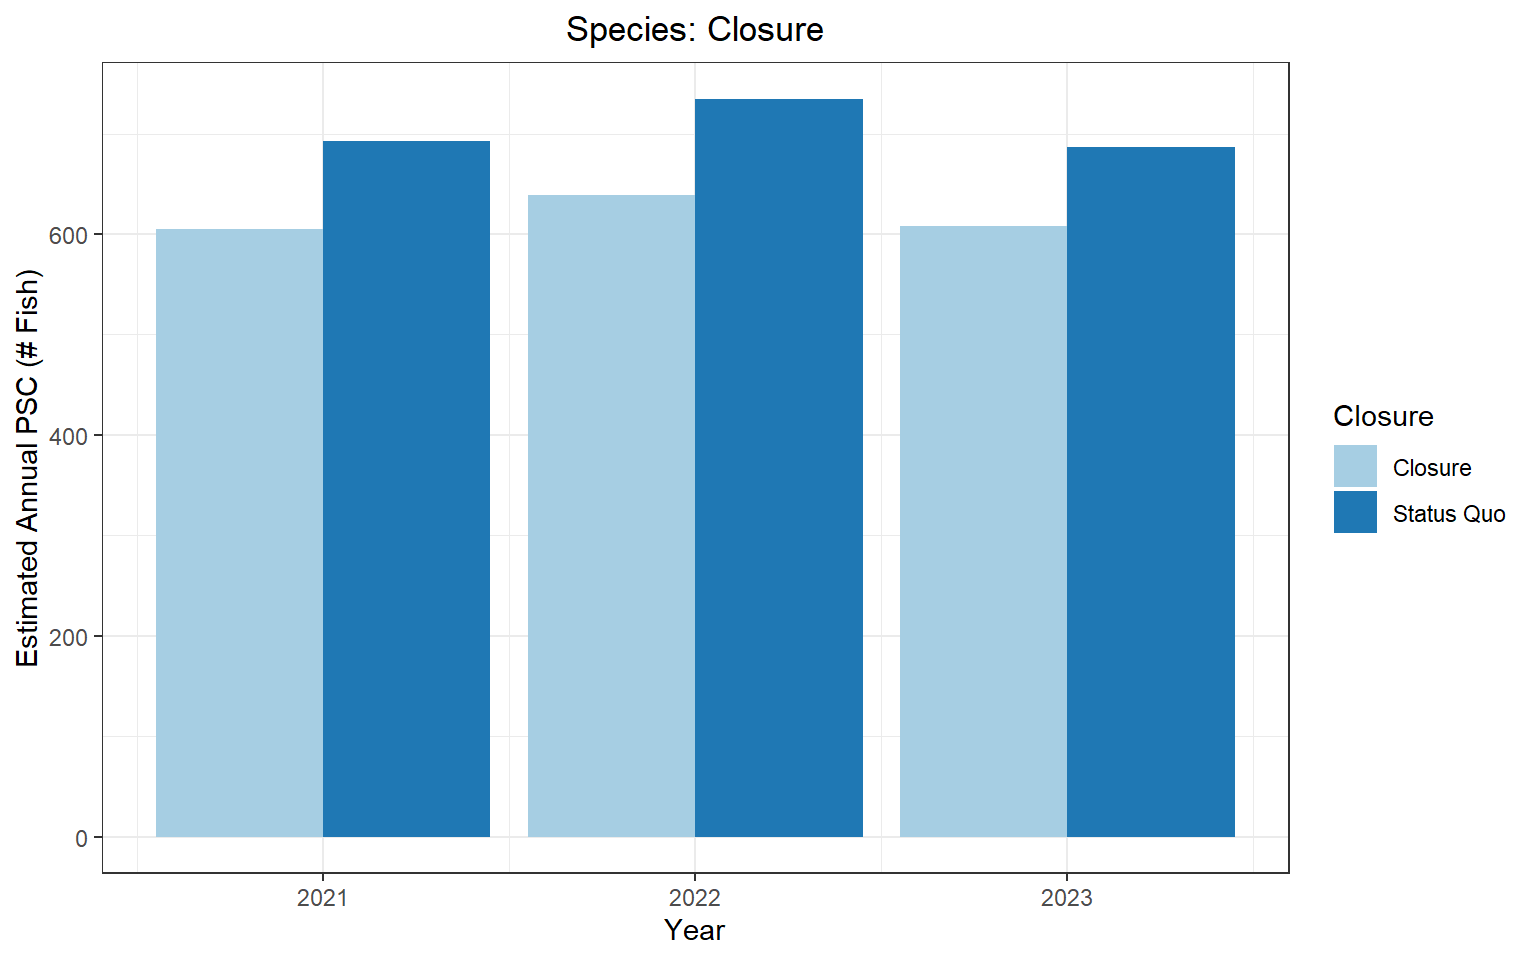
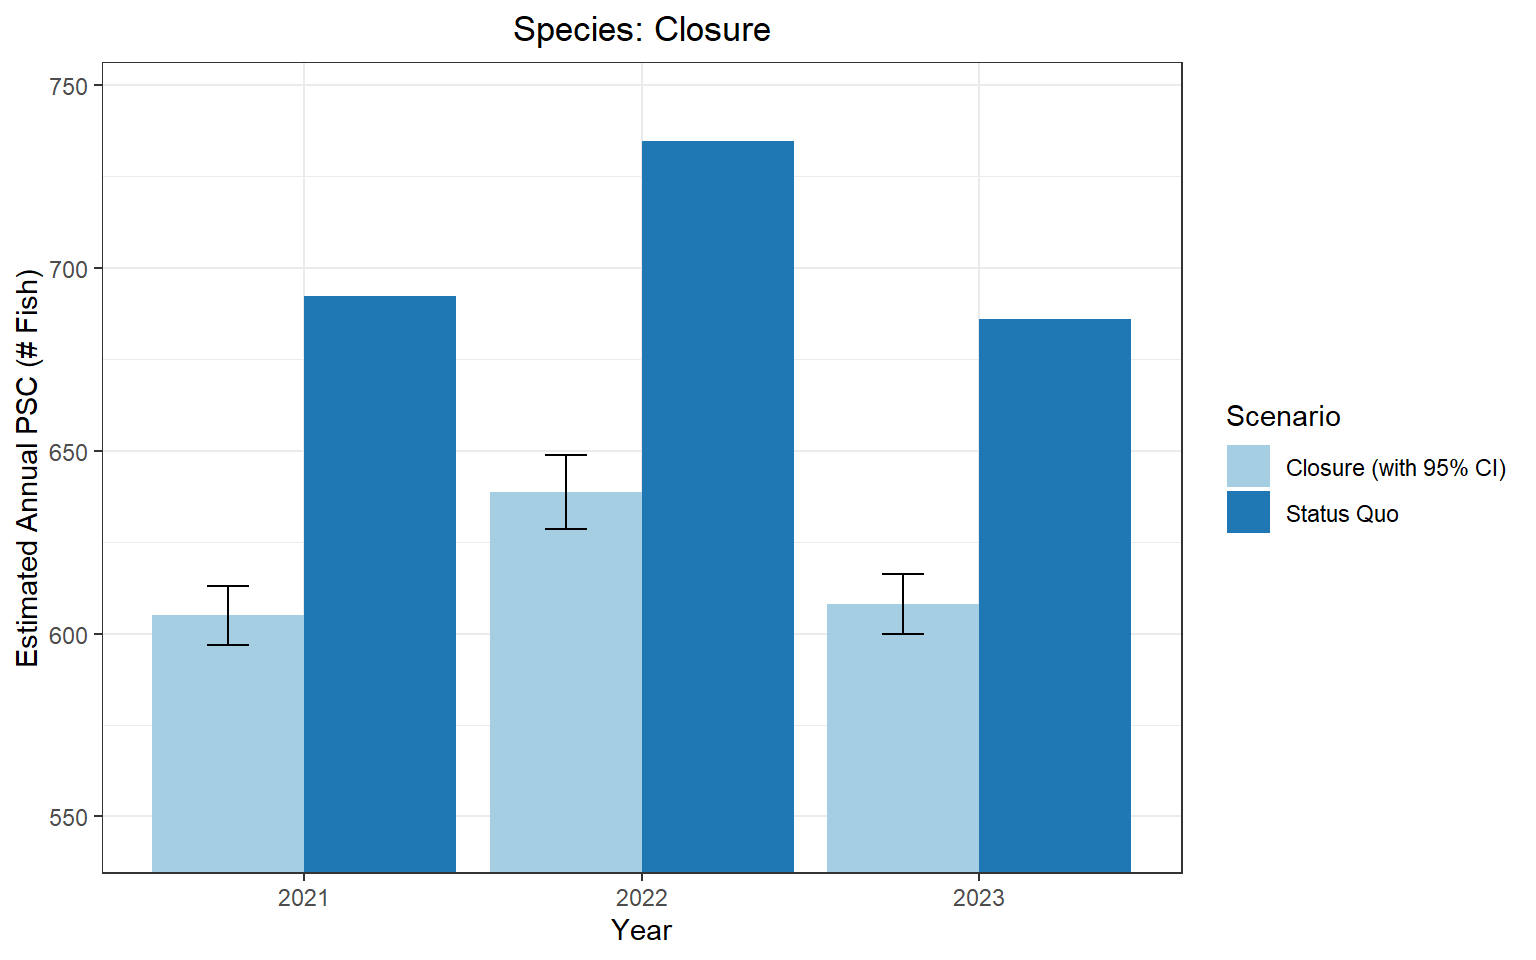
updates

diff --git a/docs/index.html b/docs/index.html
@@ -710,23 +710,27 @@ Figure&nbsp;3: Simulated weekly GF Catch Proportions.
 <span id="cb12-33"><a href="#cb12-33" aria-hidden="true" tabindex="-1"></a>  ) <span class="sc">%&gt;%</span></span>
 <span id="cb12-34"><a href="#cb12-34" aria-hidden="true" tabindex="-1"></a>  <span class="fu">distinct</span>()</span>
 <span id="cb12-35"><a href="#cb12-35" aria-hidden="true" tabindex="-1"></a></span>
-<span id="cb12-36"><a href="#cb12-36" aria-hidden="true" tabindex="-1"></a><span class="co"># 4. Final Plot with Fixed Alignment</span></span>
+<span id="cb12-36"><a href="#cb12-36" aria-hidden="true" tabindex="-1"></a><span class="co"># 4. Final Plot </span></span>
 <span id="cb12-37"><a href="#cb12-37" aria-hidden="true" tabindex="-1"></a>y_min <span class="ot">&lt;-</span> <span class="fu">min</span>(total.join.plot.annual_clean<span class="sc">$</span>psc_amount, <span class="at">na.rm =</span> <span class="cn">TRUE</span>) <span class="sc">*</span> <span class="fl">0.9</span></span>
-<span id="cb12-38"><a href="#cb12-38" aria-hidden="true" tabindex="-1"></a></span>
-<span id="cb12-39"><a href="#cb12-39" aria-hidden="true" tabindex="-1"></a><span class="fu">ggplot</span>(total.join.plot.annual_clean, <span class="fu">aes</span>(<span class="at">x =</span> <span class="fu">factor</span>(YEAR), <span class="at">y =</span> psc_amount, <span class="at">fill =</span> psc_type)) <span class="sc">+</span> </span>
-<span id="cb12-40"><a href="#cb12-40" aria-hidden="true" tabindex="-1"></a>  <span class="fu">geom_bar</span>(<span class="at">stat =</span> <span class="st">"identity"</span>, <span class="at">position =</span> <span class="fu">position_dodge</span>(<span class="fl">0.9</span>)) <span class="sc">+</span> </span>
-<span id="cb12-41"><a href="#cb12-41" aria-hidden="true" tabindex="-1"></a>  <span class="fu">geom_errorbar</span>(<span class="fu">aes</span>(<span class="at">ymin =</span> ymin, <span class="at">ymax =</span> ymax), <span class="at">position =</span> <span class="fu">position_dodge</span>(<span class="fl">0.9</span>), <span class="at">width =</span> <span class="fl">0.25</span>) <span class="sc">+</span></span>
-<span id="cb12-42"><a href="#cb12-42" aria-hidden="true" tabindex="-1"></a>  <span class="co"># Apply the dynamic zoom</span></span>
-<span id="cb12-43"><a href="#cb12-43" aria-hidden="true" tabindex="-1"></a>  <span class="fu">coord_cartesian</span>(<span class="at">ylim =</span> <span class="fu">c</span>(y_min, <span class="cn">NA</span>)) <span class="sc">+</span> </span>
-<span id="cb12-44"><a href="#cb12-44" aria-hidden="true" tabindex="-1"></a>  <span class="fu">theme_bw</span>() <span class="sc">+</span> </span>
-<span id="cb12-45"><a href="#cb12-45" aria-hidden="true" tabindex="-1"></a>  <span class="fu">scale_y_continuous</span>(<span class="at">expand =</span> <span class="fu">expansion</span>(<span class="at">mult =</span> <span class="fu">c</span>(<span class="dv">0</span>, <span class="fl">0.15</span>))) <span class="sc">+</span> </span>
-<span id="cb12-46"><a href="#cb12-46" aria-hidden="true" tabindex="-1"></a>  <span class="fu">labs</span>(<span class="at">title =</span> <span class="fu">paste0</span>(spp_title, <span class="st">": "</span>, title_name),</span>
-<span id="cb12-47"><a href="#cb12-47" aria-hidden="true" tabindex="-1"></a>       <span class="at">x =</span> <span class="st">"Year"</span>, </span>
-<span id="cb12-48"><a href="#cb12-48" aria-hidden="true" tabindex="-1"></a>       <span class="at">y =</span> <span class="st">"Estimated Annual PSC (# Fish)"</span>) <span class="sc">+</span></span>
-<span id="cb12-49"><a href="#cb12-49" aria-hidden="true" tabindex="-1"></a>  <span class="fu">scale_fill_brewer</span>(<span class="at">palette =</span> <span class="st">"Paired"</span>, </span>
-<span id="cb12-50"><a href="#cb12-50" aria-hidden="true" tabindex="-1"></a>                    <span class="at">name =</span> <span class="st">"Scenario"</span>, </span>
-<span id="cb12-51"><a href="#cb12-51" aria-hidden="true" tabindex="-1"></a>                    <span class="at">labels =</span> <span class="fu">c</span>(<span class="st">"Closure (with 95% CI)"</span>, <span class="st">"Status Quo"</span>)) <span class="sc">+</span></span>
-<span id="cb12-52"><a href="#cb12-52" aria-hidden="true" tabindex="-1"></a>  <span class="fu">theme</span>(<span class="at">plot.title =</span> <span class="fu">element_text</span>(<span class="at">hjust =</span> <span class="fl">0.5</span>))</span></code><button title="Copy to Clipboard" class="code-copy-button"><i class="bi"></i></button></pre></div>
+<span id="cb12-38"><a href="#cb12-38" aria-hidden="true" tabindex="-1"></a>y_max <span class="ot">&lt;-</span> <span class="fu">max</span>(total.join.plot.annual_clean<span class="sc">$</span>ymax, <span class="at">na.rm =</span> <span class="cn">TRUE</span>) <span class="sc">*</span> <span class="fl">1.15</span> <span class="co"># Manual expansion</span></span>
+<span id="cb12-39"><a href="#cb12-39" aria-hidden="true" tabindex="-1"></a></span>
+<span id="cb12-40"><a href="#cb12-40" aria-hidden="true" tabindex="-1"></a><span class="fu">ggplot</span>(total.join.plot.annual_clean, <span class="fu">aes</span>(<span class="at">x =</span> <span class="fu">factor</span>(YEAR), <span class="at">y =</span> psc_amount, <span class="at">fill =</span> psc_type)) <span class="sc">+</span> </span>
+<span id="cb12-41"><a href="#cb12-41" aria-hidden="true" tabindex="-1"></a>  <span class="fu">geom_bar</span>(<span class="at">stat =</span> <span class="st">"identity"</span>, <span class="at">position =</span> <span class="fu">position_dodge</span>(<span class="fl">0.9</span>)) <span class="sc">+</span> </span>
+<span id="cb12-42"><a href="#cb12-42" aria-hidden="true" tabindex="-1"></a>  <span class="fu">geom_errorbar</span>(<span class="fu">aes</span>(<span class="at">ymin =</span> ymin, <span class="at">ymax =</span> ymax), </span>
+<span id="cb12-43"><a href="#cb12-43" aria-hidden="true" tabindex="-1"></a>                <span class="at">position =</span> <span class="fu">position_dodge</span>(<span class="fl">0.9</span>), </span>
+<span id="cb12-44"><a href="#cb12-44" aria-hidden="true" tabindex="-1"></a>                <span class="at">width =</span> <span class="fl">0.25</span>, </span>
+<span id="cb12-45"><a href="#cb12-45" aria-hidden="true" tabindex="-1"></a>                <span class="at">na.rm =</span> <span class="cn">TRUE</span>) <span class="sc">+</span></span>
+<span id="cb12-46"><a href="#cb12-46" aria-hidden="true" tabindex="-1"></a>  <span class="co"># THE FIX: Use coord_cartesian to zoom WITHOUT deleting the bar data</span></span>
+<span id="cb12-47"><a href="#cb12-47" aria-hidden="true" tabindex="-1"></a>  <span class="co"># We set both the bottom (y_min) and the top (y_max) here</span></span>
+<span id="cb12-48"><a href="#cb12-48" aria-hidden="true" tabindex="-1"></a>  <span class="fu">coord_cartesian</span>(<span class="at">ylim =</span> <span class="fu">c</span>(y_min, y_max)) <span class="sc">+</span> </span>
+<span id="cb12-49"><a href="#cb12-49" aria-hidden="true" tabindex="-1"></a>  <span class="fu">theme_bw</span>() <span class="sc">+</span> </span>
+<span id="cb12-50"><a href="#cb12-50" aria-hidden="true" tabindex="-1"></a>  <span class="fu">labs</span>(<span class="at">title =</span> <span class="fu">paste0</span>(spp_title, <span class="st">": "</span>, title_name),</span>
+<span id="cb12-51"><a href="#cb12-51" aria-hidden="true" tabindex="-1"></a>       <span class="at">x =</span> <span class="st">"Year"</span>, </span>
+<span id="cb12-52"><a href="#cb12-52" aria-hidden="true" tabindex="-1"></a>       <span class="at">y =</span> <span class="st">"Estimated Annual PSC (# Fish)"</span>) <span class="sc">+</span></span>
+<span id="cb12-53"><a href="#cb12-53" aria-hidden="true" tabindex="-1"></a>  <span class="fu">scale_fill_brewer</span>(<span class="at">palette =</span> <span class="st">"Paired"</span>, </span>
+<span id="cb12-54"><a href="#cb12-54" aria-hidden="true" tabindex="-1"></a>                    <span class="at">name =</span> <span class="st">"Scenario"</span>, </span>
+<span id="cb12-55"><a href="#cb12-55" aria-hidden="true" tabindex="-1"></a>                    <span class="at">labels =</span> <span class="fu">c</span>(<span class="st">"Closure (with 95% CI)"</span>, <span class="st">"Status Quo"</span>)) <span class="sc">+</span></span>
+<span id="cb12-56"><a href="#cb12-56" aria-hidden="true" tabindex="-1"></a>  <span class="fu">theme</span>(<span class="at">plot.title =</span> <span class="fu">element_text</span>(<span class="at">hjust =</span> <span class="fl">0.5</span>))</span></code><button title="Copy to Clipboard" class="code-copy-button"><i class="bi"></i></button></pre></div>
 </details>
 <div class="cell-output-display">
 <div id="fig-status-quo" class="quarto-float quarto-figure quarto-figure-center anchored" width="768">
